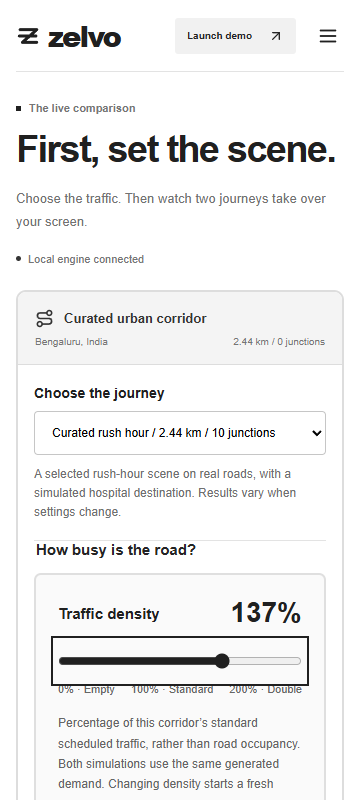
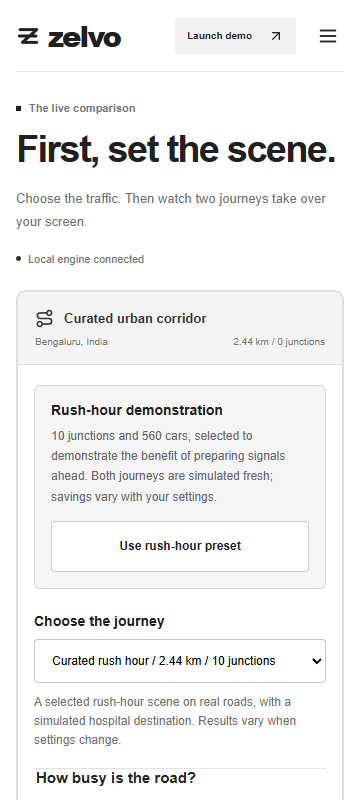
Highlight the measured rush-hour demo and record hosted simulation evidence

Changed region(s): [[0.0917, 0.4688, 0.9167, 1.0], [0.8861, 0.5625, 0.9167, 0.5938]]

diff --git a/frontend/src/Demo.tsx b/frontend/src/Demo.tsx
@@ -38,6 +38,7 @@ export function Demo({network,onImmersiveChange,onHome}:{network:Network;onImmer
   const demand=liveNetwork.ordinary_vehicle_count??(settings.corridor==='curated'?560:settings.corridor==='expanded'?600:300);
   const densityPercent=settings.density_percent??100;
   const vehicleCount=Math.floor(demand*densityPercent/100);
+  const rushHourSelected=settings.corridor==='curated'&&densityPercent===100&&settings.seed===42&&settings.dispatch_s===60&&settings.observation_delay_s===0;
   const launch=()=>{if(busy||server!=='ready')return;setWatching(true);void document.documentElement.requestFullscreen?.().catch(()=>{});void live.start(settings);};
   const backToSetup=async()=>{
     if(busy)await live.cancel();
@@ -56,7 +57,7 @@ export function Demo({network,onImmersiveChange,onHome}:{network:Network;onImmer
   if(!watching)return <main id="main" className="demo-page setup-page page-width">
     <div className="demo-intro"><div><div className="demo-eyebrow"><span/>The live comparison</div><h1 ref={setupHeading} tabIndex={-1}>First, set the scene.</h1><p>Choose the traffic. Then watch two journeys take over your screen.</p></div><div className={`server-status ${server}`}><span/>{server==='ready'?(isLocalhost?'Local engine connected':'Simulation engine connected'):server==='checking'?'Connecting to simulation engine':'Simulation engine offline'}</div></div>
     <section className="scenario-controls" aria-labelledby="scenario-title"><div className="control-header"><h2 id="scenario-title"><Route size={19}/>{settings.corridor==='curated'?'Curated urban corridor':'Victoria Hospital corridor'}</h2><span>Bengaluru, India</span><span className="control-route">{server==='ready'?`${(liveNetwork.route_length_m/1000).toFixed(2)} km / ${liveNetwork.signals.length} junctions`:'Loading corridor...'}</span></div>
-    <div className="setup-fields"><div className="corridor-picker"><label htmlFor="corridor">Choose the journey</label><select id="corridor" disabled={busy} value={settings.corridor} onChange={e=>setSettings({...settings,corridor:e.target.value as Settings['corridor']})}><option value="curated">Curated rush hour / 2.44 km / 10 junctions</option><option value="expanded">Across the city / 6.15 km / 13 junctions</option><option value="reference">Original verified corridor / 913 m / 3 junctions</option></select><p>{settings.corridor==='curated'?'A selected rush-hour scene on real roads, with a simulated hospital destination. Results vary when settings change.':settings.corridor==='expanded'?'A longer journey through Bengaluru to Victoria Hospital. Results are measured each run.':'The original corridor used for the published 46.9% reference result.'}</p></div><fieldset className="density-control" disabled={busy}><legend>How busy is the road?</legend><div className="density-slider"><label htmlFor="traffic-density">Traffic density <output htmlFor="traffic-density">{densityPercent}%</output></label><input id="traffic-density" type="range" min="0" max="200" step="1" value={densityPercent} aria-describedby="density-help density-count" aria-valuetext={`${densityPercent}% of standard demand, ${vehicleCount} ordinary vehicles`} onChange={e=>setSettings({...settings,density_percent:Number(e.target.value)})}/><div className="density-scale"><span>0% · Empty</span><span>100% · Standard</span><span>200% · Double</span></div><p id="density-help">Percentage of this corridor’s standard scheduled traffic, rather than road occupancy. Both simulations use the same generated demand. Changing density starts a fresh comparison.</p><span id="density-count" className="control-hint" aria-live="polite">{vehicleCount} ordinary vehicles scheduled</span></div></fieldset>
+    <div className="setup-fields"><div className="rush-hour-preset"><div><strong>Rush-hour demonstration</strong><p>10 junctions and 560 cars, selected to demonstrate the benefit of preparing signals ahead. Both journeys are simulated fresh; savings vary with your settings.</p></div><button className="button" disabled={busy||rushHourSelected} onClick={()=>setSettings({...preset})}>{rushHourSelected?<><Check size={16}/>Rush-hour preset selected</>:'Use rush-hour preset'}</button></div><div className="corridor-picker"><label htmlFor="corridor">Choose the journey</label><select id="corridor" disabled={busy} value={settings.corridor} onChange={e=>setSettings({...settings,corridor:e.target.value as Settings['corridor']})}><option value="curated">Curated rush hour / 2.44 km / 10 junctions</option><option value="expanded">Across the city / 6.15 km / 13 junctions</option><option value="reference">Original verified corridor / 913 m / 3 junctions</option></select><p>{settings.corridor==='curated'?'A selected rush-hour scene on real roads, with a simulated hospital destination. Results vary when settings change.':settings.corridor==='expanded'?'A longer journey through Bengaluru to Victoria Hospital. Results are measured each run.':'The original corridor used for the published 46.9% reference result.'}</p></div><fieldset className="density-control" disabled={busy}><legend>How busy is the road?</legend><div className="density-slider"><label htmlFor="traffic-density">Traffic density <output htmlFor="traffic-density">{densityPercent}%</output></label><input id="traffic-density" type="range" min="0" max="200" step="1" value={densityPercent} aria-describedby="density-help density-count" aria-valuetext={`${densityPercent}% of standard demand, ${vehicleCount} ordinary vehicles`} onChange={e=>setSettings({...settings,density_percent:Number(e.target.value)})}/><div className="density-scale"><span>0% · Empty</span><span>100% · Standard</span><span>200% · Double</span></div><p id="density-help">Percentage of this corridor’s standard scheduled traffic, rather than road occupancy. Both simulations use the same generated demand. Changing density starts a fresh comparison.</p><span id="density-count" className="control-hint" aria-live="polite">{vehicleCount} ordinary vehicles scheduled</span></div></fieldset>
     <div className="setup-options"><div className="control-seed"><label htmlFor="seed">Random seed</label><input disabled={busy} id="seed" type="number" min="0" max="2147483647" value={settings.seed} onChange={e=>setSettings({...settings,seed:Math.min(2147483647,Math.max(0,Math.trunc(Number(e.target.value))))})}/><span className="control-hint">Identical traffic on both sides</span></div><button className="advanced-toggle" onClick={()=>setAdvanced(!advanced)} aria-expanded={advanced}>More settings <ChevronDown size={17} className={advanced?'rotated':''}/></button></div>
     {advanced&&<div className="advanced-controls"><div><label htmlFor="dispatch">Ambulance dispatch <strong>{settings.dispatch_s}s</strong></label><input disabled={busy} id="dispatch" type="range" min="30" max="180" step="15" value={settings.dispatch_s} onChange={e=>setSettings({...settings,dispatch_s:Number(e.target.value)})}/><p>Seconds after the traffic scenario begins.</p></div><div><label htmlFor="delay">Sensor delay</label><select disabled={busy} id="delay" value={settings.observation_delay_s} onChange={e=>setSettings({...settings,observation_delay_s:Number(e.target.value)})}><option value="0">Live observations</option><option value="2">2 seconds delayed</option><option value="6">6 seconds delayed</option></select><p>Test how ZELVO handles older traffic data.</p></div><button className="preset-reset" disabled={busy} onClick={()=>setSettings(preset)}><RotateCcw size={16}/>Restore default settings</button></div>}
     <div className="setup-launch"><div><span className="setup-pair"><Radio size={18}/><span/><PriorityMark/></span><p>Same ambulance. Same traffic.<br/><strong>Ordinary signals vs. ZELVO priority.</strong></p></div><button className="button primary run-button" disabled={busy||server!=='ready'} onClick={launch}>{busy?<LoaderCircle className="spin" size={18}/>:<Play size={17} fill="currentColor"/>}{busy?'Stopping comparison':'Run comparison'}<ArrowUpRight size={19}/></button></div></div></section>

diff --git a/frontend/src/demo.css b/frontend/src/demo.css
@@ -42,3 +42,4 @@
 @media(max-width:700px){.comparison-stage .stage-header{left:12px;right:10px;top:10px}.comparison-stage .stage-header .home-button{min-height:38px;padding:10px 12px;font-size:11px}.comparison-stage .baseline .panel-header{top:64px}}
 
 .setup-page .density-slider{padding:22px;border:2px solid #dfdfdf;border-radius:7px;background:#fafafa}.density-slider label{display:flex;align-items:center;justify-content:space-between;font-size:15px;font-weight:600}.density-slider output{font-size:28px;color:var(--accent);font-variant-numeric:tabular-nums}.density-slider input[type=range]{display:block;width:100%;height:36px;margin:14px 0 4px;accent-color:var(--accent);cursor:pointer}.density-scale{display:flex;justify-content:space-between;gap:8px;font-size:11px;color:#666}.density-slider p{font-size:12px;line-height:1.7;color:#666;margin-top:18px}.density-slider .control-hint{display:block}.density-control:disabled{opacity:.6}
+.rush-hour-preset{display:flex;align-items:center;justify-content:space-between;gap:24px;padding:20px;margin-bottom:24px;border:1px solid #d4d4d4;border-radius:7px;background:#f5f5f5}.rush-hour-preset strong{font-size:14px}.rush-hour-preset p{max-width:540px;margin-top:8px;color:#666;font-size:12px;line-height:1.7}.rush-hour-preset .button{flex-shrink:0;font-size:12px;border:1px solid #ccc;background:white}.rush-hour-preset .button:disabled{opacity:.8;cursor:default}@media(max-width:700px){.rush-hour-preset{align-items:stretch;flex-direction:column;gap:14px;padding:16px}.rush-hour-preset .button{justify-content:center}}

diff --git a/frontend/tests/density.spec.ts b/frontend/tests/density.spec.ts
@@ -7,10 +7,15 @@ test('percentage slider submits real demand settings and fits mobile', async ({ 
   await page.route('**/api/sessions', route => route.fulfill({ status: 422, json: { detail: 'Test completed' } }));
   await page.goto('/#demo');
   await expect(page.getByText('Local engine connected')).toBeVisible();
+  await expect(page.getByRole('button', { name: 'Rush-hour preset selected' })).toBeDisabled();
   const slider = page.getByRole('slider', { name: 'Traffic density' });
   await expect(slider).toHaveValue('100');
   await slider.fill('137');
   await expect(page.getByText('767 ordinary vehicles scheduled')).toBeVisible();
+  await page.getByRole('button', { name: 'Use rush-hour preset' }).click();
+  await expect(slider).toHaveValue('100');
+  await expect(page.getByText('560 ordinary vehicles scheduled')).toBeVisible();
+  await slider.fill('137');
   await page.setViewportSize({ width: 360, height: 800 });
   expect(await page.evaluate(() => document.documentElement.scrollWidth <= innerWidth)).toBeTruthy();
   await page.screenshot({ path: '../reports/density-slider-mobile.png' });

diff --git a/README.md b/README.md
@@ -81,7 +81,7 @@ The expanded moderate/seed42 validation measured 917.2s without ZELVO and 887.6s
 
 `render.yaml` prepares one Docker web service on Render's **Free** compute plan. Connect this repository in Render through **New > Blueprint** and review that `plan: free` is selected. No database, persistent disk or paid service is defined. The same service serves the website and live SUMO API; use its HTTPS `onrender.com` URL. Its canonical origin is allowed using Render's `RENDER_EXTERNAL_URL` environment variable. For an existing Vercel frontend, configure its API origin as described below after the backend is deployed.
 
-Render's free service sleeps after 15 minutes of inactivity and wakes on a visit; waking can take about one minute. It is independent of this computer, but is not guaranteed uninterrupted availability. The plan provides 512 MB RAM and 0.1 CPU, so Linux deployment and a complete simulation must be validated on the host before claiming this configuration fits. The Docker image runs baseline and ZELVO workers sequentially (`ZELVO_WORKER_MODE=sequential`) to reduce peak memory. Both runs are freshly computed from the same inputs; playback waits until both streams are available. Local runs remain parallel by default. One-second streamed snapshots reduce telemetry memory and bandwidth; the SUMO physics step and measured outcome are unchanged. Without a payment method, exceeding free allowances suspends service instead of billing overages. See [free-plan limits](https://render.com/docs/free), [compute specifications](https://render.com/docs/compute-plans), and [billing FAQ](https://render.com/docs/faq).
+Render's free service sleeps after 15 minutes of inactivity and wakes on a visit; waking can take about one minute. It is independent of this computer, but is not guaranteed uninterrupted availability. The plan provides 512 MB RAM and 0.1 CPU, so the deployment runs only one comparison at a time. The deployed native runtime and two complete comparisons have been verified; see `reports/render-live-verification.json`. The Docker image runs baseline and ZELVO workers sequentially (`ZELVO_WORKER_MODE=sequential`) to reduce peak memory. Both runs are freshly computed from the same inputs; playback waits until both streams are available. Local runs remain parallel by default. One-second streamed snapshots reduce telemetry memory and bandwidth; the SUMO physics step and measured outcome are unchanged. Without a payment method, exceeding free allowances suspends service instead of billing overages. See [free-plan limits](https://render.com/docs/free), [compute specifications](https://render.com/docs/compute-plans), and [billing FAQ](https://render.com/docs/faq).
 
 Every comparison creates two fresh SUMO workers from the selected corridor, percentage demand, seed, dispatch time and sensor delay. The frontend streams vehicle positions and computes the result from measured arrival and departure times. There is no recorded-scenario fallback. If the engine is unavailable, starting a comparison is disabled.
 
@@ -98,7 +98,7 @@ Deploy this as one persistent Linux x86_64 container with HTTPS and WebSocket su
 
 For an existing separately hosted frontend, set `VITE_ZELVO_API_URL=https://your-sumo-service.example` in its build environment and rebuild. Set `ZELVO_ALLOWED_ORIGINS=https://your-frontend.example` on the backend (comma-separated explicit origins). Both HTTP API requests and WebSocket streams use that configured backend. No secret belongs in `VITE_` variables. A static frontend deployment alone cannot execute this project's native SUMO workers.
 
-The container configuration is prepared but needs a deployment host and an end-to-end check on that host. Historical landing-page evidence remains labelled as a selected measured scenario; it is never used as a new live run's result.
+The container is deployed at https://zelvo-live.onrender.com. Hosted verification measured 77.2s / 77.0s at 37% reference demand (111 vehicles), and 474.7s / 245.5s at the default curated demand (560 vehicles, 48.28% saved). These fresh paired runs took approximately 201s and 337s of wall time on the free plan and recorded no collisions, teleports or signal-audit errors. The setup opens on the selected rush-hour demonstration and offers a button to restore that preset after experimenting. Results are recomputed for each run, with no required winning percentage. Historical landing-page evidence remains labelled as a selected measured scenario; it is never used as a new live run's result.
 
 Rebuild the larger scenario with `.venv\Scripts\python.exe scripts\prepare-expanded-demo.py` when no simulations are active. The source district and geometry inventory must already be present. Start the built application with `powershell -NoProfile -ExecutionPolicy Bypass -File scripts/start-web.ps1`.
 

diff --git a/progress.md b/progress.md
@@ -141,3 +141,12 @@ Updated: 10 October 2026. Latest authorization: build the landing page and live 
 - Verified live-only revision: production build, 12 backend unit/API checks and 3 browser checks passed. A fresh reference-corridor run at 37% demand, seed 17 (111 ordinary vehicles) completed with 77.2s baseline / 77.0s ZELVO (0.259% saved), matching generated demand hashes and recording no collisions, teleports or signal-audit errors. No target savings percentage is asserted.
 - User requires availability while this computer is off, with no paid server. Added `render.yaml` selecting a single Free Docker web service, exact Render origin allowance and one-second streamed telemetry. Actual SUMO physics steps remain unchanged. Default telemetry remains 0.2s for local runs. The curated moderate local run completed at approximately 128.1 MiB peak working set across the API and two workers; this does not establish Linux/Render performance.
 - Hosted-origin, CORS, invalid telemetry interval and percentage demand checks pass (17 tests). Latest frontend build and 3 browser checks pass. Docker and live Render deployment remain unverified; the user is creating a free Render account to connect the GitHub repository. No paid resources are configured.
+
+
+## Hosted live verification and rush-hour demonstration (2026-10-22)
+
+- Deployed the full site and native SUMO API at https://zelvo-live.onrender.com on Render Free. First deployment exposed a missing Linux `libXrender.so.1`; added the required native libraries and a build-time SUMO import/version check. Worker receipts now report the final startup exception without exposing the complete worker log.
+- A hosted process restart occurred while concurrent native workers and UI geometry loading were active. The Docker deployment now runs the two independent policies sequentially to reduce peak resource load; local parallel mode remains available. Both policies retain identical generated demand and settings, and the UI waits for both streams before comparative playback.
+- Verified two fresh hosted runs through the public HTTP API and WebSocket, including actual frame streams, completed journeys, matched demand/network hashes and zero recorded collisions, teleports or signal-audit errors. Reference 37%, seed 17: 111 cars, 77.2s / 77.0s (0.259% saved), approximately 201s wall time. Curated 100%, seed 42: 560 cars, 474.7s / 245.5s (48.283% saved), approximately 337s wall time. Evidence: `reports/render-live-verification.json`.
+- User wants the main demonstration to show a substantial measured benefit. Retained the genuine curated rush-hour default and added a prominent reset-to-preset control, with disclosure that the scenario is selected to demonstrate advance priority and that changed settings can change the outcome. No result is forced or replayed from a recording.
+- Production build, 18 backend unit/API checks, the actual sequential SUMO integration check, 3 local browser checks and a hosted browser check passed. The preset reset and mobile overflow were verified. Render's sleeping, startup delays and limited resources remain practical constraints; these results are selected scenarios, not a population benchmark.
